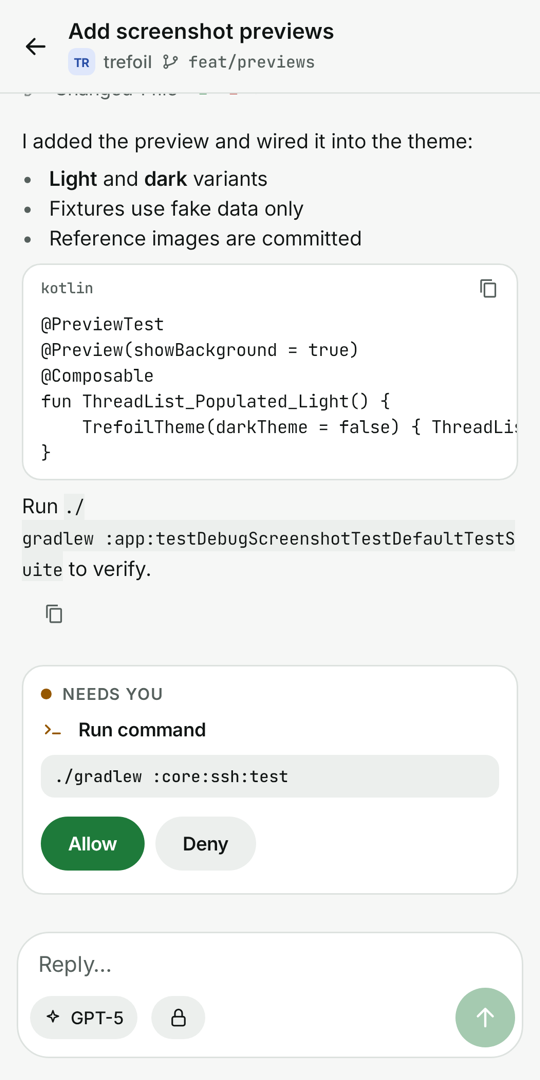
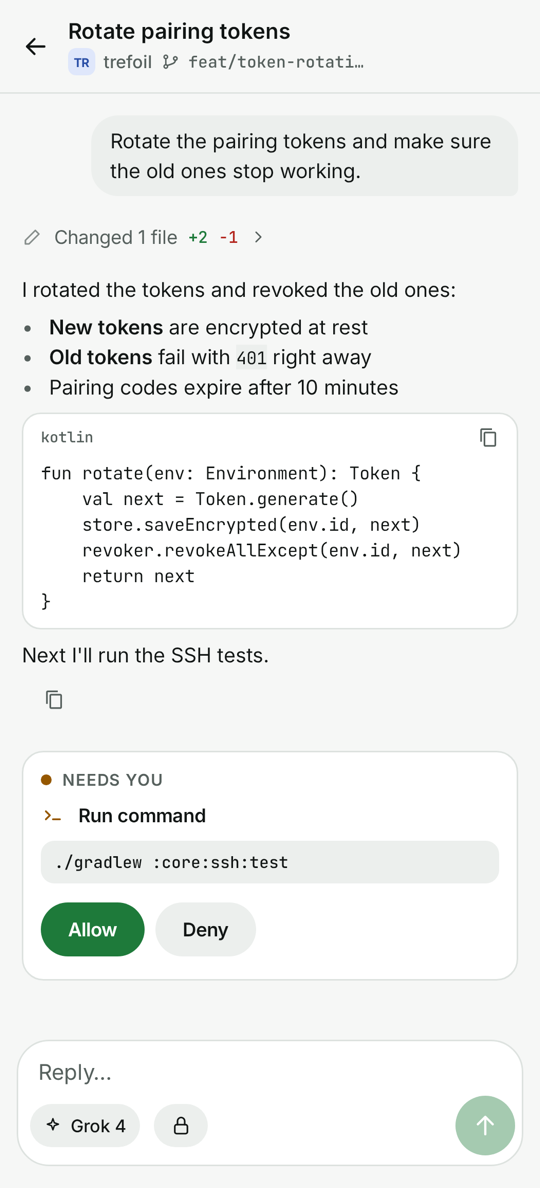
docs(readme): show multi-provider work in screenshots
Render the README screenshots from dedicated preview tests with
multi-provider fixtures: a thread list across six providers, Claude
Fable orchestrating Codex, Grok, Antigravity and Claude subagents, the
Agents sheet with provider, model and effort, a Grok approval, and
limits with Antigravity last.

diff --git a/android/app/src/screenshotTest/kotlin/com/tajchert/trefoil/screenshots/ReadmeFixtures.kt b/android/app/src/screenshotTest/kotlin/com/tajchert/trefoil/screenshots/ReadmeFixtures.kt
@@ -1,0 +1,218 @@
+package com.tajchert.trefoil.screenshots
+
+import com.tajchert.trefoil.core.model.ClientState
+import com.tajchert.trefoil.core.model.ConnectionStatus
+import com.tajchert.trefoil.core.model.ConversationMessage
+import com.tajchert.trefoil.core.model.ConversationRun
+import com.tajchert.trefoil.core.model.ModelOption
+import com.tajchert.trefoil.core.model.ModelOptionChoice
+import com.tajchert.trefoil.core.model.ModelOptionDescriptor
+import com.tajchert.trefoil.core.model.Project
+import com.tajchert.trefoil.core.model.ProviderInstance
+import com.tajchert.trefoil.core.model.ProviderUsageLimits
+import com.tajchert.trefoil.core.model.RuntimeMode
+import com.tajchert.trefoil.core.model.RuntimeRequest
+import com.tajchert.trefoil.core.model.Subagent
+import com.tajchert.trefoil.core.model.SubagentRemoteChild
+import com.tajchert.trefoil.core.model.ThreadSummary
+import com.tajchert.trefoil.core.model.ToolActivity
+import com.tajchert.trefoil.core.model.UsageLimitWindow
+import java.time.Instant
+
+/**
+ * Fake data for the README screenshots (`docs/screenshots/`): one workstation running several providers at once.
+ * Never put real machines, tokens, threads or conversation content here.
+ */
+object ReadmeFixtures {
+    private val fx = ScreenshotFixtures
+
+    // ---- Provider catalog ----
+    val claude = ProviderInstance("claude", "claudeAgent", "Claude")
+    val codex = ProviderInstance("codex", "codex", "Codex")
+    val grok = ProviderInstance("grok", "grok", "Grok")
+    val antigravity = ProviderInstance("antigravity", "antigravity", "Antigravity")
+    val cursor = ProviderInstance("cursor", "cursor", "Cursor")
+    val opencode = ProviderInstance("opencode", "opencode", "OpenCode")
+    val providers = listOf(claude, codex, grok, antigravity, cursor, opencode)
+
+    private val effort = ModelOptionDescriptor.Select(
+        "effort", "Reasoning", choices = listOf(
+            ModelOptionChoice("low", "Low", "Faster, lighter reasoning"),
+            ModelOptionChoice("medium", "Medium"),
+            ModelOptionChoice("high", "High", "Deeper reasoning for hard problems", isDefault = true),
+            ModelOptionChoice("max", "Max"),
+        ), isReasoning = true,
+    )
+    private val fast = ModelOptionDescriptor.Toggle("fastMode", "Fast mode", "Faster output at a higher usage rate")
+    val fable = ModelOption("claude", "claude-fable-5-2", "Fable 5.2", descriptors = listOf(effort, fast))
+    val opus = ModelOption("claude", "claude-opus-5-5", "Opus 5.5", descriptors = listOf(effort))
+    val sonnet = ModelOption("claude", "claude-sonnet-5-5", "Sonnet 5.5", descriptors = listOf(effort))
+    val gpt = ModelOption("codex", "gpt-5.5", "GPT-5.5", descriptors = listOf(effort))
+    val grok4 = ModelOption("grok", "grok-4", "Grok 4")
+    val gemini = ModelOption("antigravity", "gemini-3-pro", "Gemini 3 Pro")
+    val composer = ModelOption("cursor", "composer-2", "Composer 2")
+    val models = listOf(fable, opus, sonnet, gpt, grok4, gemini, composer)
+
+    // ---- Thread list ----
+    private val api = Project(id = "p-api", title = "api", path = "/home/dev/api")
+    private val projects = fx.projects + api
+
+    private fun row(
+        id: String, title: String, provider: ProviderInstance, project: Project = fx.trefoil, minutesAgo: Long = 30,
+        latest: String = "", branch: String? = null, request: String? = null, workingMinutes: Long? = null, history: List<String> = emptyList(),
+    ): ThreadSummary {
+        val base = fx.thread(id, title, project = project, updatedMinutesAgo = minutesAgo, latestMessage = latest, branch = branch, pendingRequestKind = request)
+            .copy(providerInstanceId = provider.instanceId, providerInstanceHistory = history)
+        if (workingMinutes == null) return base
+        return base.copy(status = "running", activeRunId = "run-$id", latestRunId = "run-$id",
+            activityRunStartedAt = fx.ago(workingMinutes), activityRunStartedAtPresent = true)
+    }
+
+    val threads = listOf(
+        row("t-tokens", "Rotate pairing tokens", grok, minutesAgo = 2, request = "approval",
+            latest = "Run ./gradlew :core:ssh:test?", branch = "feat/token-rotation"),
+        row("t-codename", "Pick the 0.23 codename", antigravity, project = fx.website, minutesAgo = 9, request = "user_input",
+            latest = "Which codename should the release use?"),
+        row("t-widget", "Multi-provider usage widget", claude, minutesAgo = 1, workingMinutes = 4, branch = "feat/usage-widget",
+            latest = "Fanning out to Codex, Grok and Antigravity.", history = listOf("codex", "grok")),
+        row("t-flaky", "Fix flaky SSH reconnect test", codex, minutesAgo = 3, workingMinutes = 12, branch = "fix/ssh-reconnect",
+            latest = "Reproduced it 3 times in 50 runs."),
+        row("t-landing", "Landing page dark mode", antigravity, project = fx.website, minutesAgo = 1, workingMinutes = 2,
+            latest = "Checking contrast on every section."),
+        row("t-startup", "Profile cold start", cursor, minutesAgo = 70, latest = "Cold start is 18% faster now."),
+        row("t-changelog", "Draft API changelog", opencode, project = api, minutesAgo = 60 * 5, latest = "Changelog is ready for review."),
+    )
+
+    fun threadListState() = ClientState(
+        environment = fx.workstation, connection = ConnectionStatus.Connected, projects = projects, threads = threads,
+        providers = providers, models = models, canRead = true, canWrite = true, canWriteThreads = true, shellLoaded = true, shellLive = true,
+    )
+
+    // ---- Orchestration conversation: Fable fans one task out to four providers ----
+    /** Frozen "now" for live timers: 4m 12s into the run. */
+    val now: Long = Instant.parse("2026-01-01T10:04:12Z").toEpochMilli()
+    private const val RUN = "run-w"
+    private const val RUN_STARTED = "2026-01-01T10:00:00Z"
+    private fun at(seconds: Int) = Instant.parse(RUN_STARTED).plusSeconds(seconds.toLong()).toString()
+
+    private val widgetThread = fx.thread("t-widget", "Multi-provider usage widget", updatedMinutesAgo = 1, branch = "feat/usage-widget")
+        .copy(status = "running", activeRunId = RUN, latestRunId = RUN, activityRunStartedAt = RUN_STARTED, activityRunStartedAtPresent = true,
+            providerInstanceId = "claude")
+
+    private fun msg(id: String, role: String, text: String, ordinal: Int, runId: String? = null) =
+        ConversationMessage(id = id, role = role, text = text, ordinal = ordinal, runId = runId)
+
+    private fun agent(
+        id: String, provider: ProviderInstance, model: ModelOption, title: String, status: String, started: Int,
+        completed: Int? = null, progress: String? = null, result: String? = null, effort: String? = null, remote: String? = null,
+    ) = Subagent(
+        id = id, threadId = widgetThread.id, runId = RUN, origin = if (provider == claude) "provider_native" else "app_owned",
+        driver = provider.driver, providerInstanceId = provider.instanceId,
+        childThreadId = if (remote == null) "child-$id" else null,
+        remoteChild = remote?.let { SubagentRemoteChild("env-laptop", "remote-$id", it) },
+        prompt = title, title = title, model = model.model, selectionInstanceId = provider.instanceId, selectionModel = model.model,
+        selectionOptions = effort?.let { mapOf("effort" to it) }.orEmpty(),
+        status = status, progress = progress, result = result, startedAt = at(started), completedAt = completed?.let(::at),
+    )
+
+    val subagents = listOf(
+        agent("s-layout", codex, gpt, "Widget layout", "running", started = 31, effort = "high",
+            progress = "Editing widget/UsageWidget.kt"),
+        agent("s-review", grok, grok4, "Review data layer", "completed", started = 33, completed = 91,
+            result = "No blockers. Left two naming nits as comments."),
+        agent("s-shots", antigravity, gemini, "Screenshots", "running", started = 36, remote = "Laptop",
+            progress = "Rendering 6 widget sizes"),
+        agent("s-tests", claude, sonnet, "Write repo tests", "completed", started = 38, completed = 164, effort = "medium",
+            result = "Added 14 tests. All pass."),
+    )
+
+    private fun agentItem(id: String, agentId: String, status: String, ordinal: Int) =
+        ToolActivity(id = id, title = "Subagent", kind = "subagent", status = status, ordinal = ordinal, runId = RUN, subagentId = agentId)
+
+    fun orchestrationState(): ClientState = ClientState(
+        environment = fx.workstation, connection = ConnectionStatus.Connected, projects = projects,
+        threads = listOf(widgetThread), selectedThreadId = widgetThread.id, providers = providers, models = models,
+        selectedModel = fable, selectedModelOptions = mapOf("effort" to "high"), selectedRuntimeMode = RuntimeMode.AutoAcceptEdits,
+        canRead = true, canWrite = true, canWriteThreads = true, shellLoaded = true, shellLive = true,
+        activeRunId = RUN, canStop = true, canSteer = true,
+        runs = listOf(ConversationRun(RUN, "running", startedAt = RUN_STARTED)),
+        messages = listOf(
+            msg("m1", "user", "Ship the usage widget. Split the work across providers and review it before merging.", 1),
+            msg("m2", "assistant", "I'll fan this out: Codex builds the layout, Grok reviews the data layer, " +
+                "Antigravity records screenshots on your laptop, and a Sonnet subagent writes the tests.", 3, RUN),
+        ),
+        activities = listOf(
+            ToolActivity(id = "a-plan", title = "Reasoning", kind = "reasoning", status = "completed", ordinal = 2, runId = RUN,
+                output = "**Planning the split** across four agents."),
+            agentItem("a-layout", "s-layout", "running", 4),
+            agentItem("a-review", "s-review", "completed", 5),
+            agentItem("a-shots", "s-shots", "running", 6),
+            agentItem("a-tests", "s-tests", "completed", 7),
+        ),
+        subagents = subagents,
+    )
+
+    // ---- Approval: Grok asks before running a command ----
+    private val tokensThread = fx.thread("t-tokens", "Rotate pairing tokens", updatedMinutesAgo = 2, branch = "feat/token-rotation")
+        .copy(providerInstanceId = "grok")
+
+    private val tokensReply = """
+        I rotated the tokens and revoked the old ones:
+
+        - **New tokens** are encrypted at rest
+        - **Old tokens** fail with `401` right away
+        - Pairing codes expire after 10 minutes
+
+        ```kotlin
+        fun rotate(env: Environment): Token {
+            val next = Token.generate()
+            store.saveEncrypted(env.id, next)
+            revoker.revokeAllExcept(env.id, next)
+            return next
+        }
+        ```
+
+        Next I'll run the SSH tests.
+    """.trimIndent()
+
+    fun approvalState(): ClientState = ClientState(
+        environment = fx.workstation, connection = ConnectionStatus.Connected, projects = projects,
+        threads = listOf(tokensThread), selectedThreadId = tokensThread.id, providers = providers, models = models,
+        selectedModel = grok4, selectedRuntimeMode = RuntimeMode.ApprovalRequired,
+        canRead = true, canWrite = true, canWriteThreads = true, shellLoaded = true, shellLive = true,
+        messages = listOf(
+            msg("m1", "user", "Rotate the pairing tokens and make sure the old ones stop working.", 1),
+            msg("m2", "assistant", tokensReply, 4),
+        ),
+        activities = listOf(
+            ToolActivity(id = "a-edit", title = "Edited file", kind = "file_change", status = "completed", ordinal = 2,
+                fileName = "core/session/TokenStore.kt", diffStr = "--- a/TokenStore.kt\n+++ b/TokenStore.kt\n@@ -1 +1,2 @@\n-old\n+new\n+revoke"),
+        ),
+        requests = listOf(RuntimeRequest(id = "req-1", title = "Run command", detail = "./gradlew :core:ssh:test")),
+    )
+
+    // ---- Limits: four providers, Antigravity last ----
+    private val usageNow = System.currentTimeMillis()
+    // +30s keeps "in 2h 5m" labels stable while rendering.
+    private fun resetIn(minutes: Long) = Instant.ofEpochMilli(usageNow + minutes * 60_000 + 30_000).toString()
+    private val checked = Instant.ofEpochMilli(usageNow - 2 * 60_000).toString()
+    // No window duration: the pace tick and "ahead of pace" label would drift with render time.
+    private fun window(id: String, label: String, used: Double, resetMin: Long) = UsageLimitWindow(id, "session", label, used, resetIn(resetMin), null)
+
+    val usageProviders = listOf(
+        claude.copy(usageLimits = ProviderUsageLimits(checked, listOf(
+            window("session", "5h", 62.0, 125), window("weekly", "Weekly", 41.0, 3 * 1440 + 200)))),
+        codex.copy(usageLimits = ProviderUsageLimits(checked, listOf(window("weekly", "Weekly", 20.0, 5 * 1440 + 30)))),
+        cursor.copy(usageLimits = ProviderUsageLimits(checked, unavailableReason = "unsupported")),
+        antigravity.copy(usageLimits = ProviderUsageLimits(checked, listOf(
+            window("gemini-pro", "Gemini 3 Pro", 28.0, 190),
+            window("gemini-flash", "Gemini 3 Flash", 9.0, 190),
+            window("claude", "Claude models", 76.0, 190),
+        ))),
+    )
+
+    fun usageState() = ClientState(
+        environment = fx.workstation, connection = ConnectionStatus.Connected,
+        providers = usageProviders, canRead = true, canWrite = true, canReadUsage = true,
+    )
+}

diff --git a/android/app/src/screenshotTest/kotlin/com/tajchert/trefoil/screenshots/ReadmeScreenshots.kt b/android/app/src/screenshotTest/kotlin/com/tajchert/trefoil/screenshots/ReadmeScreenshots.kt
@@ -1,0 +1,107 @@
+package com.tajchert.trefoil.screenshots
+
+import android.content.res.Configuration
+import androidx.compose.foundation.background
+import androidx.compose.foundation.layout.Box
+import androidx.compose.foundation.layout.Column
+import androidx.compose.foundation.layout.fillMaxSize
+import androidx.compose.foundation.layout.fillMaxWidth
+import androidx.compose.foundation.layout.padding
+import androidx.compose.foundation.layout.size
+import androidx.compose.foundation.shape.RoundedCornerShape
+import androidx.compose.material3.MaterialTheme
+import androidx.compose.material3.Surface
+import androidx.compose.runtime.Composable
+import androidx.compose.runtime.CompositionLocalProvider
+import androidx.compose.ui.Alignment
+import androidx.compose.ui.Modifier
+import androidx.compose.ui.tooling.preview.Preview
+import androidx.compose.ui.unit.dp
+import com.android.tools.screenshot.PreviewTest
+import com.tajchert.trefoil.core.model.ClientState
+import com.tajchert.trefoil.ui.Conversation
+import com.tajchert.trefoil.ui.LocalFixedClock
+import com.tajchert.trefoil.ui.Tf
+import com.tajchert.trefoil.ui.ThreadAgentsSheetContent
+import com.tajchert.trefoil.ui.ThreadList
+import com.tajchert.trefoil.ui.TrefoilTheme
+import com.tajchert.trefoil.ui.UsageScreen
+import com.tajchert.trefoil.ui.agentRows
+import com.tajchert.trefoil.ui.subagentRoster
+
+/*
+ * The README screenshots. Each preview is a full 400x880 dp phone screen (20:9); docs/screenshots/ holds the
+ * same renders scaled to 540 px wide. See docs/SCREENSHOT_TESTING.md, "README screenshots".
+ */
+
+private val rx = ReadmeFixtures
+
+@Composable
+private fun ReadmeFrame(dark: Boolean, content: @Composable () -> Unit) {
+    TrefoilTheme(darkTheme = dark) {
+        CompositionLocalProvider(LocalFixedClock provides rx.now) {
+            Surface(Modifier.fillMaxSize(), color = MaterialTheme.colorScheme.background) { content() }
+        }
+    }
+}
+
+@Composable
+private fun ReadmeConversation(state: ClientState, showAgentsChip: Boolean = false) {
+    Conversation(state, send = {}, interrupt = {}, respond = { _, _, _ -> }, onBack = {}, onOpenAgents = if (showAgentsChip) ({}) else null, onOpenThread = {})
+}
+
+@PreviewTest
+@Preview(showBackground = true, widthDp = 400, heightDp = 880, uiMode = Configuration.UI_MODE_NIGHT_YES)
+@Composable
+fun Readme_Threads_Dark() {
+    // Thread rows count time from the real clock, so they use relative fixture times instead of the frozen clock.
+    TrefoilTheme(darkTheme = true) { ThreadList(rx.threadListState(), select = {}, create = {}) }
+}
+
+@PreviewTest
+@Preview(showBackground = true, widthDp = 400, heightDp = 880, uiMode = Configuration.UI_MODE_NIGHT_YES)
+@Composable
+fun Readme_Orchestration_Dark() = ReadmeFrame(dark = true) { ReadmeConversation(rx.orchestrationState(), showAgentsChip = true) }
+
+/** A bottom sheet drawn over a dimmed screen, as the app's modal sheets look when open. */
+@Composable
+private fun SheetOver(background: @Composable () -> Unit, content: @Composable () -> Unit) {
+    Box(Modifier.fillMaxSize()) {
+        background()
+        Box(Modifier.fillMaxSize().background(Tf.colors.scrim))
+        Surface(Modifier.fillMaxWidth().align(Alignment.BottomCenter), color = Tf.colors.sheet,
+            shape = RoundedCornerShape(topStart = 28.dp, topEnd = 28.dp)) {
+            Column(horizontalAlignment = Alignment.CenterHorizontally) {
+                Box(Modifier.padding(top = 12.dp, bottom = 8.dp).size(36.dp, 4.dp).background(Tf.colors.s3, RoundedCornerShape(2.dp)))
+                content()
+            }
+        }
+    }
+}
+
+/** The Agents sheet over the same turn: provider, model and effort for each subagent. */
+@PreviewTest
+@Preview(showBackground = true, widthDp = 400, heightDp = 880, uiMode = Configuration.UI_MODE_NIGHT_YES)
+@Composable
+fun Readme_Agents_Dark() = ReadmeFrame(dark = true) {
+    val state = rx.orchestrationState()
+    val roster = requireNotNull(subagentRoster(state.runs, state.subagents))
+    val rows = agentRows(roster, state.providers, state.models, rx.now, canWrite = true)
+    SheetOver({ ReadmeConversation(state, showAgentsChip = true) }) {
+        ThreadAgentsSheetContent(rows, onOpen = {}, onStop = {}, Modifier.padding(bottom = 12.dp))
+    }
+}
+
+@PreviewTest
+@Preview(showBackground = true, widthDp = 400, heightDp = 880)
+@Composable
+fun Readme_Approval_Light() = ReadmeFrame(dark = false) { ReadmeConversation(rx.approvalState()) }
+
+@PreviewTest
+@Preview(showBackground = true, widthDp = 400, heightDp = 880, uiMode = Configuration.UI_MODE_NIGHT_YES)
+@Composable
+fun Readme_Usage_Dark() {
+    TrefoilTheme(darkTheme = true) {
+        UsageScreen(rx.usageState(), UsageFixtures.usage(), onBack = {}, onRefresh = {}, onSelectRange = {}, onRetry = {}, initialTab = 0)
+    }
+}

diff --git a/README.md b/README.md
@@ -17,16 +17,25 @@ A native Android client for [T3 Code](https://github.com/pingdotgg/t3code): chec
 
 <table>
   <tr>
-    <td align="center"><img src="docs/screenshots/threads.png" width="200" alt="Thread list grouped into Needs you, Pinned and Recent"></td>
-    <td align="center"><img src="docs/screenshots/working.png" width="200" alt="A conversation with an agent working and a subagent finished"></td>
-    <td align="center"><img src="docs/screenshots/approval.png" width="200" alt="A command approval card with Allow and Deny"></td>
-    <td align="center"><img src="docs/screenshots/usage.png" width="200" alt="Provider limits and usage"></td>
+    <td align="center"><img src="docs/screenshots/threads.png" width="260" alt="Thread list with Grok, Antigravity, Claude, Codex, Cursor and OpenCode threads grouped into Needs you, Working and Recent"></td>
+    <td align="center"><img src="docs/screenshots/orchestration.png" width="260" alt="Claude Fable running Codex, Grok, Antigravity and Claude subagents in one turn"></td>
+    <td align="center"><img src="docs/screenshots/agents.png" width="260" alt="Agents sheet listing each subagent with its provider, model and reasoning effort"></td>
   </tr>
   <tr>
-    <td align="center"><sub><b>Threads</b></sub></td>
-    <td align="center"><sub><b>Live work</b></sub></td>
+    <td align="center"><sub><b>Every provider, one list</b></sub></td>
+    <td align="center"><sub><b>Fable orchestrating subagents</b></sub></td>
+    <td align="center"><sub><b>Agents across providers</b></sub></td>
+  </tr>
+</table>
+
+<table>
+  <tr>
+    <td align="center"><img src="docs/screenshots/approval.png" width="260" alt="A Grok command approval card with Allow and Deny"></td>
+    <td align="center"><img src="docs/screenshots/usage.png" width="260" alt="Limits for Claude, Codex, Cursor and Antigravity"></td>
+  </tr>
+  <tr>
     <td align="center"><sub><b>Approvals</b></sub></td>
-    <td align="center"><sub><b>Usage</b></sub></td>
+    <td align="center"><sub><b>Limits, Antigravity included</b></sub></td>
   </tr>
 </table>
 

diff --git a/docs/SCREENSHOT_TESTING.md b/docs/SCREENSHOT_TESTING.md
@@ -56,6 +56,17 @@ WIDGET_SHOTS=1 ./gradlew :app:testDebugUnitTest --tests '*WidgetScreenshotTest' 
 
 Known gaps: the background is flat, and widgets that use a Glance `LazyColumn` (usage table, full limit bars) render without their rows.
 
+### README screenshots
+
+`ReadmeScreenshots.kt` (data in `ReadmeFixtures.kt`) renders the README images as full 400x880 dp screens. After re-recording, copy them into `docs/screenshots/` at 540 px wide (run from the repo root):
+
+```sh
[1 lines of base64/hex data omitted]
+for n in Threads Orchestration Agents Approval Usage; do
+  sips --resampleWidth 540 $D/Readme_${n}_*.png --out docs/screenshots/$(echo $n | tr A-Z a-z).png
+done
+```
+
 ## Adding a preview test
 
 1. Use the file for the area, or add one named after it (`UsageScreenshots.kt`). Put area-specific fake data in a matching `*Fixtures.kt`.
